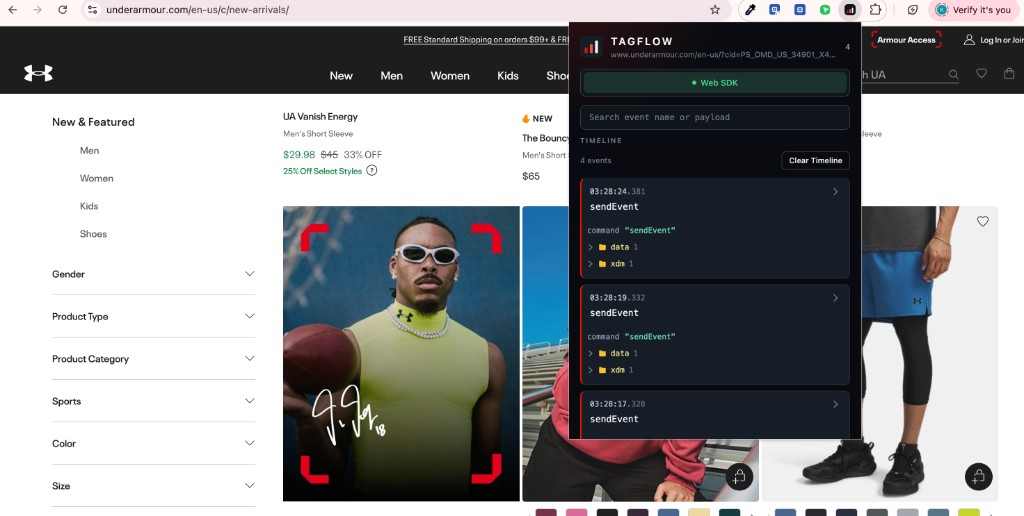
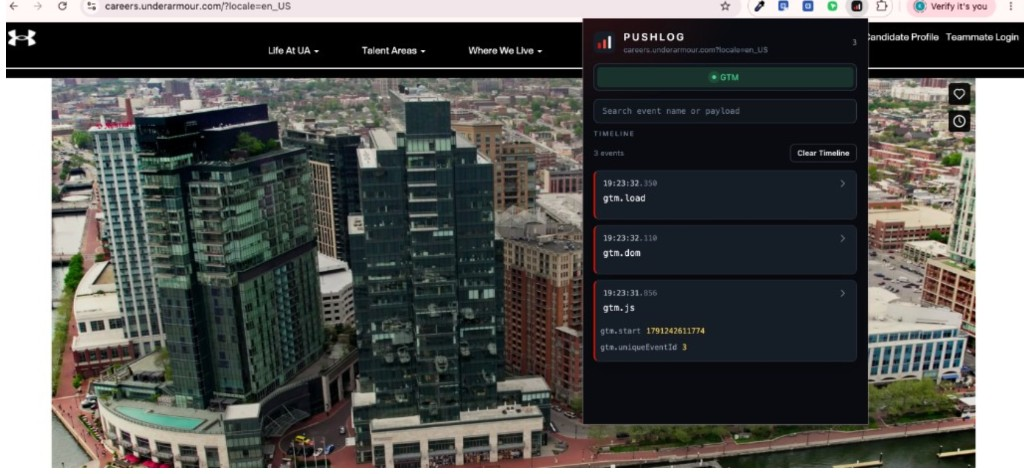
updated image

diff --git a/README.md b/README.md
@@ -51,7 +51,7 @@
 <h2 align="center">Currently building: PushLog</h2>
 
 <p align="center">
-  <img src="./assets/pushlog.jpg" alt="PushLog open on a product page, showing Web SDK events" width="100%" />
+  <img src="./assets/pushlog.jpg" alt="PushLog inspecting Google Tag Manager events on the Under Armour careers site" width="100%" />
 </p>
 
 <p align="center">
